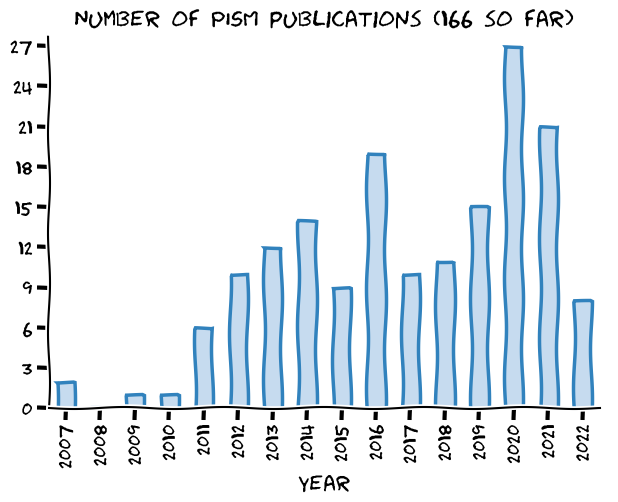
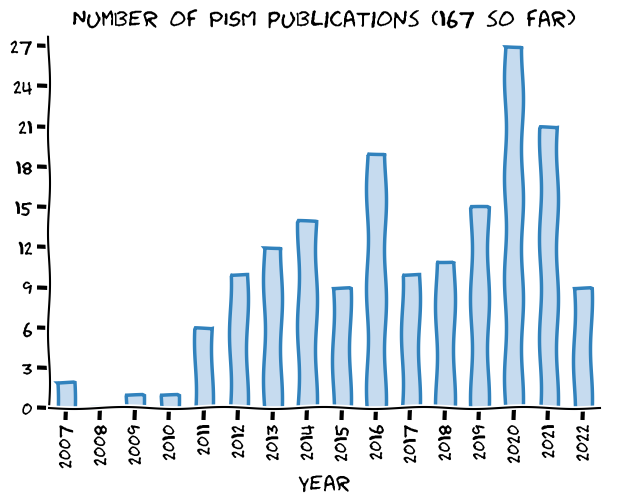
[skip ci] Update the website

Changed region(s): [[0.123, 0.0, 0.9531, 0.0598], [0.9223, 0.6574, 0.9531, 0.8068], [0.9223, 0.5677, 0.9838, 0.6275]]

diff --git a/publications/index.html b/publications/index.html
@@ -290,6 +290,7 @@ window.onscroll = function() {
 
 <ol>
   <li>Anaïs Bretones, Kerim H. Nisancioglu, Mari F. Jensen, Ailin Brakstad, and Shuting Yang. Transient increase in arctic deep-water formation and ocean circulation under sea-ice retreat. <em>Journal of Climate</em>, 35(1):109 – 124, 2022. URL: <a href="https://journals.ametsoc.org/view/journals/clim/35/1/JCLI-D-21-0152.1.xml">https://journals.ametsoc.org/view/journals/clim/35/1/JCLI-D-21-0152.1.xml</a>, <a href="https://doi.org/10.1175/JCLI-D-21-0152.1">doi:10.1175/JCLI-D-21-0152.1</a>.</li>
+  <li>R. Döscher, M. Acosta, A. Alessandri, P. Anthoni, T. Arsouze, T. Bergman, R. Bernardello, S. Boussetta, L.-P. Caron, G. Carver, M. Castrillo, F. Catalano, I. Cvijanovic, P. Davini, E. Dekker, F. J. Doblas-Reyes, D. Docquier, P. Echevarria, U. Fladrich, R. Fuentes-Franco, M. Gröger, J. v. Hardenberg, J. Hieronymus, M. P. Karami, J.-P. Keskinen, T. Koenigk, R. Makkonen, F. Massonnet, M. Ménégoz, P. A. Miller, E. Moreno-Chamarro, L. Nieradzik, T. van Noije, P. Nolan, D. O’Donnell, P. Ollinaho, G. van den Oord, P. Ortega, O. T. Prims, A. Ramos, T. Reerink, C. Rousset, Y. Ruprich-Robert, P. Le Sager, T. Schmith, R. Schrödner, F. Serva, V. Sicardi, M. Sloth Madsen, B. Smith, T. Tian, E. Tourigny, P. Uotila, M. Vancoppenolle, S. Wang, D. Wårlind, U. Willén, K. Wyser, S. Yang, X. Yepes-Arbós, and Q. Zhang. The ec-earth3 earth system model for the coupled model intercomparison project 6. <em>Geoscientific Model Development</em>, 15(7):2973–3020, 2022. URL: <a href="https://gmd.copernicus.org/articles/15/2973/2022/">https://gmd.copernicus.org/articles/15/2973/2022/</a>, <a href="https://doi.org/10.5194/gmd-15-2973-2022">doi:10.5194/gmd-15-2973-2022</a>.</li>
   <li>S. Hinck, E. J. Gowan, X. Zhang, and G. Lohmann. PISM-LakeCC: Implementing an adaptive proglacial lake boundary into an ice sheet model. <em>The Cryosphere</em>, pages 941–965, 2022. URL: <a href="https://tc.copernicus.org/articles/16/941/2022/">https://tc.copernicus.org/articles/16/941/2022/</a>, <a href="https://doi.org/10.5194/tc-16-941-2022">doi:10.5194/tc-16-941-2022</a>.</li>
   <li>Shuang Liu, Kaiheng Hu, Weiming Liu, and Paul A. Carling. Hydro-climatic characteristics of Yarlung Zangbo River Basin since the Last Glacial Maximum. <em>Adv. Atmos. Sci.</em>, 2022. <a href="https://doi.org/10.1007/s00376-021-1150-7">doi:10.1007/s00376-021-1150-7</a>.</li>
   <li>M. S. Madsen, S. Yang, G. Aðalgeirsdóttir, S. H. Svendsen, C. B. Rodehacke, and I. M. Ringgaard. The role of an interactive greenland ice sheet in the coupled climate-ice sheet model EC-earth-PISM. <em>Climate Dynamics</em>, Feb 2022. <a href="https://doi.org/10.1007/s00382-022-06184-6">doi:10.1007/s00382-022-06184-6</a>.</li>

diff --git a/usersmap/org-locations.js b/usersmap/org-locations.js
@@ -106,8 +106,8 @@ var addressPoints = [
   ],
   [
     "University of New South Wales (UNSW) | Sydney, Australia | <a href='http://www.essrc.unsw.edu.au/' target='_blank'>http://www.essrc.unsw.edu.au/</a>",
-    -33.8548157,
-    151.2164539
+    -33.8698439,
+    151.2082848
   ],
   [
     "University of Northern British Columbia (UNBC) | Prince George, Canada | <a href='https://www2.unbc.ca/' target='_blank'>https://www2.unbc.ca/</a>",

diff --git a/publications/published.md b/publications/published.md
@@ -1,13 +1,14 @@
 ### 2022
 
 1. Anaïs Bretones, Kerim H\. Nisancioglu, Mari F\. Jensen, Ailin Brakstad, and Shuting Yang\. Transient increase in arctic deep\-water formation and ocean circulation under sea\-ice retreat\. *Journal of Climate*, 35\(1\):109 &ndash; 124, 2022\. URL: [https://journals\.ametsoc\.org/view/journals/clim/35/1/JCLI\-D\-21\-0152\.1\.xml](https://journals.ametsoc.org/view/journals/clim/35/1/JCLI-D-21-0152.1.xml), [doi:10\.1175/JCLI\-D\-21\-0152\.1](https://doi.org/10.1175/JCLI-D-21-0152.1)\.   
-2. S\. Hinck, E\. J\. Gowan, X\. Zhang, and G\. Lohmann\. PISM\-LakeCC: Implementing an adaptive proglacial lake boundary into an ice sheet model\. *The Cryosphere*, pages 941–965, 2022\. URL: [https://tc\.copernicus\.org/articles/16/941/2022/](https://tc.copernicus.org/articles/16/941/2022/), [doi:10\.5194/tc\-16\-941\-2022](https://doi.org/10.5194/tc-16-941-2022)\.   
-3. Shuang Liu, Kaiheng Hu, Weiming Liu, and Paul A\. Carling\. Hydro\-climatic characteristics of Yarlung Zangbo River Basin since the Last Glacial Maximum\. *Adv\. Atmos\. Sci\.*, 2022\. [doi:10\.1007/s00376\-021\-1150\-7](https://doi.org/10.1007/s00376-021-1150-7)\.   
-4. M\. S\. Madsen, S\. Yang, G\. Aðalgeirsdóttir, S\. H\. Svendsen, C\. B\. Rodehacke, and I\. M\. Ringgaard\. The role of an interactive greenland ice sheet in the coupled climate\-ice sheet model EC\-earth\-PISM\. *Climate Dynamics*, Feb 2022\. [doi:10\.1007/s00382\-022\-06184\-6](https://doi.org/10.1007/s00382-022-06184-6)\.   
-5. Martin Siegert and Nicholas R Golledge\. Advances in Numerical Modelling of the Antarctic Ice Sheet\. In *Antarctic Climate Evolution*, chapter 5, pages 199–218\. Elsevier, 2nd edition, 2022\.   
-6. Qing Yan, Lewis A\. Owen, Chuncheng Guo, Zhongshi Zhang, Jinzhe Zhang, and Huijun Wang\. Widespread glacier advances across the Tian Shan during Marine Isotope Stage 3 not supported by climate\-glaciation simulations\. *Fundamental Research*, 2022\. URL: [https://www\.sciencedirect\.com/science/article/pii/S266732582200111X](https://www.sciencedirect.com/science/article/pii/S266732582200111X), [doi:10\.1016/j\.fmre\.2022\.01\.033](https://doi.org/10.1016/j.fmre.2022.01.033)\.   
-7. Hu Yang, Uta Krebs\-Kanzow, Thomas Kleiner, Dmitry Sidorenko, Christian Bernd Rodehacke, Xiaoxu Shi, Paul Gierz, Lu Niu, Evan J\. Gowan, Sebastian Hinck, Xingxing Liu, Lennert B\. Stap, and Gerrit Lohmann\. Impact of paleoclimate on present and future evolution of the Greenland Ice Sheet\. *PLOS ONE*, 17\(1\):1–21, 2022\. [doi:10\.1371/journal\.pone\.0259816](https://doi.org/10.1371/journal.pone.0259816)\.   
-8. A\.\-S\. P\. Zinck and A\. Grinsted\. Brief communication: estimating the ice thickness of the müller ice cap using an inversion of the shallow ice approximation\. *The Cryosphere*, 2022\. accepted\. URL: [https://tc\.copernicus\.org/preprints/tc\-2021\-300/](https://tc.copernicus.org/preprints/tc-2021-300/), [doi:10\.5194/tc\-2021\-300](https://doi.org/10.5194/tc-2021-300)\.   
+2. R\. Döscher, M\. Acosta, A\. Alessandri, P\. Anthoni, T\. Arsouze, T\. Bergman, R\. Bernardello, S\. Boussetta, L\.\-P\. Caron, G\. Carver, M\. Castrillo, F\. Catalano, I\. Cvijanovic, P\. Davini, E\. Dekker, F\. J\. Doblas\-Reyes, D\. Docquier, P\. Echevarria, U\. Fladrich, R\. Fuentes\-Franco, M\. Gröger, J\. v\. Hardenberg, J\. Hieronymus, M\. P\. Karami, J\.\-P\. Keskinen, T\. Koenigk, R\. Makkonen, F\. Massonnet, M\. Ménégoz, P\. A\. Miller, E\. Moreno\-Chamarro, L\. Nieradzik, T\. van Noije, P\. Nolan, D\. O'Donnell, P\. Ollinaho, G\. van den Oord, P\. Ortega, O\. T\. Prims, A\. Ramos, T\. Reerink, C\. Rousset, Y\. Ruprich\-Robert, P\. Le Sager, T\. Schmith, R\. Schrödner, F\. Serva, V\. Sicardi, M\. Sloth Madsen, B\. Smith, T\. Tian, E\. Tourigny, P\. Uotila, M\. Vancoppenolle, S\. Wang, D\. Wårlind, U\. Willén, K\. Wyser, S\. Yang, X\. Yepes\-Arbós, and Q\. Zhang\. The ec\-earth3 earth system model for the coupled model intercomparison project 6\. *Geoscientific Model Development*, 15\(7\):2973–3020, 2022\. URL: [https://gmd\.copernicus\.org/articles/15/2973/2022/](https://gmd.copernicus.org/articles/15/2973/2022/), [doi:10\.5194/gmd\-15\-2973\-2022](https://doi.org/10.5194/gmd-15-2973-2022)\.   
+3. S\. Hinck, E\. J\. Gowan, X\. Zhang, and G\. Lohmann\. PISM\-LakeCC: Implementing an adaptive proglacial lake boundary into an ice sheet model\. *The Cryosphere*, pages 941–965, 2022\. URL: [https://tc\.copernicus\.org/articles/16/941/2022/](https://tc.copernicus.org/articles/16/941/2022/), [doi:10\.5194/tc\-16\-941\-2022](https://doi.org/10.5194/tc-16-941-2022)\.   
+4. Shuang Liu, Kaiheng Hu, Weiming Liu, and Paul A\. Carling\. Hydro\-climatic characteristics of Yarlung Zangbo River Basin since the Last Glacial Maximum\. *Adv\. Atmos\. Sci\.*, 2022\. [doi:10\.1007/s00376\-021\-1150\-7](https://doi.org/10.1007/s00376-021-1150-7)\.   
+5. M\. S\. Madsen, S\. Yang, G\. Aðalgeirsdóttir, S\. H\. Svendsen, C\. B\. Rodehacke, and I\. M\. Ringgaard\. The role of an interactive greenland ice sheet in the coupled climate\-ice sheet model EC\-earth\-PISM\. *Climate Dynamics*, Feb 2022\. [doi:10\.1007/s00382\-022\-06184\-6](https://doi.org/10.1007/s00382-022-06184-6)\.   
+6. Martin Siegert and Nicholas R Golledge\. Advances in Numerical Modelling of the Antarctic Ice Sheet\. In *Antarctic Climate Evolution*, chapter 5, pages 199–218\. Elsevier, 2nd edition, 2022\.   
+7. Qing Yan, Lewis A\. Owen, Chuncheng Guo, Zhongshi Zhang, Jinzhe Zhang, and Huijun Wang\. Widespread glacier advances across the Tian Shan during Marine Isotope Stage 3 not supported by climate\-glaciation simulations\. *Fundamental Research*, 2022\. URL: [https://www\.sciencedirect\.com/science/article/pii/S266732582200111X](https://www.sciencedirect.com/science/article/pii/S266732582200111X), [doi:10\.1016/j\.fmre\.2022\.01\.033](https://doi.org/10.1016/j.fmre.2022.01.033)\.   
+8. Hu Yang, Uta Krebs\-Kanzow, Thomas Kleiner, Dmitry Sidorenko, Christian Bernd Rodehacke, Xiaoxu Shi, Paul Gierz, Lu Niu, Evan J\. Gowan, Sebastian Hinck, Xingxing Liu, Lennert B\. Stap, and Gerrit Lohmann\. Impact of paleoclimate on present and future evolution of the Greenland Ice Sheet\. *PLOS ONE*, 17\(1\):1–21, 2022\. [doi:10\.1371/journal\.pone\.0259816](https://doi.org/10.1371/journal.pone.0259816)\.   
+9. A\.\-S\. P\. Zinck and A\. Grinsted\. Brief communication: estimating the ice thickness of the müller ice cap using an inversion of the shallow ice approximation\. *The Cryosphere*, 2022\. accepted\. URL: [https://tc\.copernicus\.org/preprints/tc\-2021\-300/](https://tc.copernicus.org/preprints/tc-2021-300/), [doi:10\.5194/tc\-2021\-300](https://doi.org/10.5194/tc-2021-300)\.   
 
 ### 2021
 
